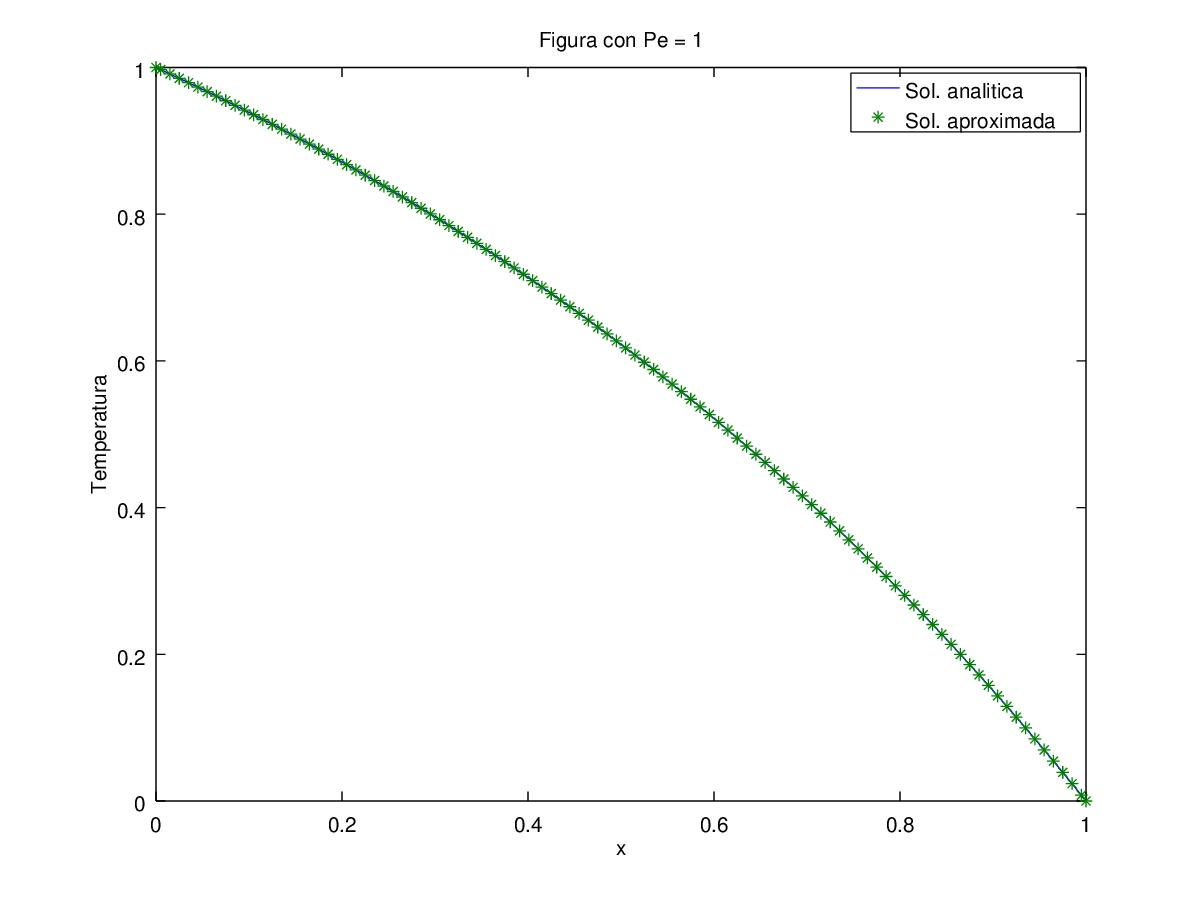
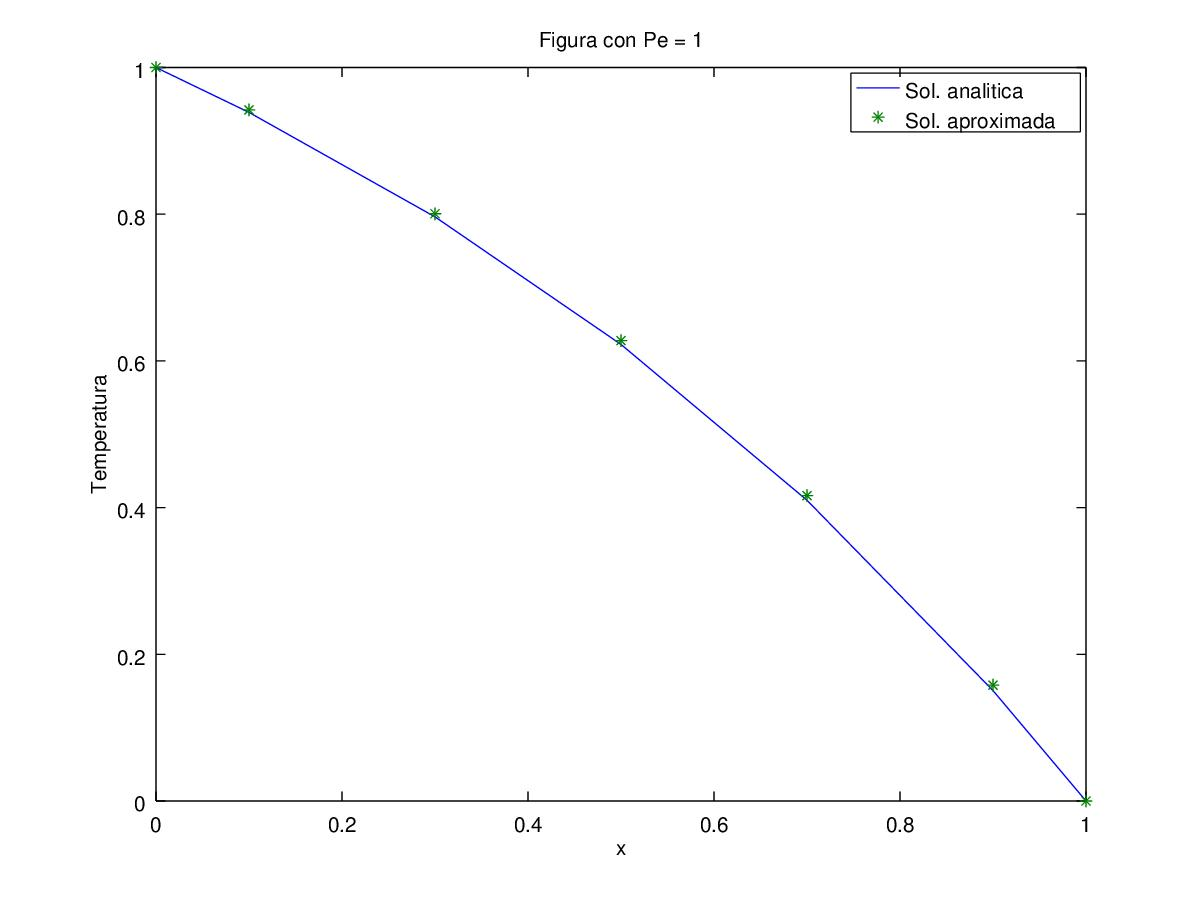
robin1

diff --git a/Trabajo 1d Vol/ejer1.m b/Trabajo 1d Vol/ejer1.m
@@ -9,19 +9,22 @@ model.xF = 1;
 model.G = 0 ;
 model.upwind = 0;
 
-model.dx = (model.xF - model.xI)/5;
 et = 0
 cb = [[1,1,-1] ; [1,0,-1]];
 cb'
+dx = (model.xF - model.xI)/5;
+model.dx = dx;
+xnode = [0; [0+dx/2:dx:1-dx/2]'; 1];
 
 solAnalitica = @(x, Pe) (exp(Pe) - exp(Pe .* x)) / (exp(Pe) - 1) 
-xnode = [0:0.01:1]';
 
 
 Pe = 0.1;
-model.v = Pe 
+model.v = Pe ;
 T1 = solAnalitica(xnode, Pe);
 [xnodeV, T2] = volFinitos(model, cb, et);
+disp "Pecle 0.1"
+T2
 
 grid on
 
@@ -31,12 +34,14 @@ title("Figura con Pe = 0.1")
 xlabel("x")
 ylabel("Temperatura")
 legend("Sol. analitica", "Sol. aproximada")
-%saveas(1, "ejer1pe01.jpg")
+saveas(1, "ejer1pe01.jpg")
 
 Pe = 1;
-model.v = Pe 
+model.v = Pe;
 T1 = solAnalitica(xnode, Pe);
 [xnodeV, T2] = volFinitos(model, cb, et);
+disp "Pecle 1"
+T2
 
 figure(2)
 plot(xnode,T1, xnodeV, T2, "*")
@@ -44,13 +49,15 @@ title("Figura con Pe = 1")
 xlabel("x")
 ylabel("Temperatura")
 legend("Sol. analitica", "Sol. aproximada")
-%saveas(2, "ejer1pe1.jpg")
+saveas(2, "ejer1pe1.jpg")
 
 Pe = 10;
 model.upwind = 1;
-model.v = Pe 
+model.v = Pe; 
 T1 = solAnalitica(xnode, Pe);
 [xnodeV, T2] = volFinitos(model, cb, et);
+disp "Pecle 10"
+T2
 
 figure(3)
 plot(xnode,T1, xnodeV, T2, "*")
@@ -58,4 +65,7 @@ title("Figura con Pe = 10, Upwind")
 xlabel("x")
 ylabel("Temperatura")
 legend("Sol. analitica", "Sol. aproximada")
-%saveas(3, "ejer1pe10.jpg")
+saveas(3, "ejer1pe10.jpg")
+
+
+

diff --git a/Trabajo 1d Vol/ejer1b.m b/Trabajo 1d Vol/ejer1b.m
@@ -1,0 +1,38 @@
+source "volFinitos.m"
+
+model = struct();
+model.k = 1;
+model.c = 0;
+model.rhoCp = 0;
+model.xI = 0;
+model.xF = 1;
+model.G = 0 ;
+model.upwind = 0;
+Pe = 1;
+model.v = Pe;
+et = 0;
+cb = [[1,1,-1] ; [1,0,-1]];
+
+solAnalitica = @(x, Pe) (exp(Pe) - exp(Pe .* x)) / (exp(Pe) - 1);
+
+iter = 5:100;
+e = zeros(size(iter),1);
+
+for i = iter 
+	dx = (model.xF - model.xI)/i;
+	model.dx = dx;
+
+	xnode = [0; [0+dx/2:dx:1-dx/2]'; 1];
+	T1 = solAnalitica(xnode, Pe);
+	[xnodeV, T2] = volFinitos(model, cb, et);
+	e(i-4) = norm(T2-T1,2);
+end
+figure(1)
+plot(iter, log(e))
+title("Grafica log(error)")
+xlabel("cantidad de celdas (N)")
+ylabel("log(e)")
+saveas(1, "ejer1bpe1.jpg")
+
+(log(e(96))-log(e(1)))/95
+

diff --git a/Trabajo 1d Vol/ejer2.m b/Trabajo 1d Vol/ejer2.m
@@ -17,13 +17,13 @@ cb'
 
 model.dx = (model.xF - model.xI) / 10;
 [xnodeV1, T1] = volFinitos(model, cb, et);
-
+T1
 model.dx = (model.xF - model.xI) / 20;
 [xnodeV2, T2] = volFinitos(model, cb, et);
-
+T2
 model.dx = (model.xF - model.xI) / 50;
 [xnodeV3, T3] = volFinitos(model, cb, et);
-
+T3
 figure(1)
 plot(xnodeV1, T1, xnodeV2, T2, xnodeV3, T3 )
 title("Soluciones")
@@ -31,7 +31,7 @@ xlabel("x")
 ylabel("Temperatura")
 h = legend("Sol. aproximada 10 celdas", "Sol. aproximada 20 celdas", "Sol. aproximada 50 celdas");
 legend(h, "location", "northwest");
-saveas(1, "ejer2Funciones.jpg")
+%saveas(1, "ejer2Funciones.jpg")
 
 %Prueba temporal
 %et = 2

diff --git a/Trabajo 1d Vol/getCondicionDerVol.m b/Trabajo 1d Vol/getCondicionDerVol.m
@@ -28,9 +28,12 @@ function [M, F] = getCondicionDerVol(M, F, S, model, cbD)
 				F(N,1) = F(N, 1) + model.k * c * S - model.v * S * a;
 			else 
 				if model.v > 0
-					M(N, N) = M(N, N) - model.k * S / dx - model.v * S + model.v * S * b - model.k * d * S; 		
-					F(N,1) = F(N, 1) + model.k * c * S - model.v * S * a;
 
+					M(N, N) = M(N, N) - model.k * S / dx - model.v * S + model.v * S - model.k * d * S; 		
+					F(N,1) = F(N, 1) + model.k * c * S;
+
+					%M(N, N) = M(N, N) - model.k * S / dx - model.v * S + model.v * S * b - model.k * d * S; 		
+					%F(N,1) = F(N, 1) + model.k * c * S - model.v * S * a;
 
 				end
 			end

diff --git a/EDO.m b/EDO.m
@@ -1,0 +1,18 @@
+syms x T DT D2T % Defino variables simbólicas
+% Matlab entiende a D como derivada primera y D2 como derivada segunda en
+% lenguaje simbólico
+
+% Ecuacion diferencial con v=2, k=1, c=3 y G=4
+eq = '2*DT - 2*D2T + 3*T - 4 = 0'; 
+
+condD = '1*DT(0)+2*T(0)=2*3'; % Condicion Robin con k=1, h=1 y Tinf=3
+condN = '-1*DT(0)=1'; % Condicion Neumann con k=1 y q=1
+condR = 'T(1)=10'; % Condicion Dirichlet
+
+T = dsolve(eq,condD,condR,x); % T es la solución simbólica
+
+xdis = 0:0.01:1;
+sol = subs(T,x,xdis); % Evalúo T en los puntos xdis que defino.
+
+plot(xdis,sol)
+
